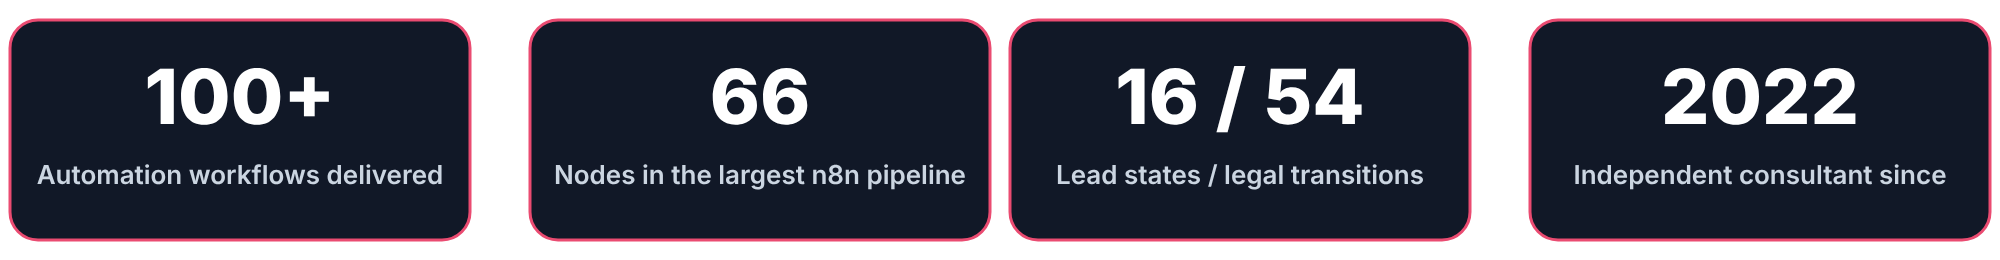
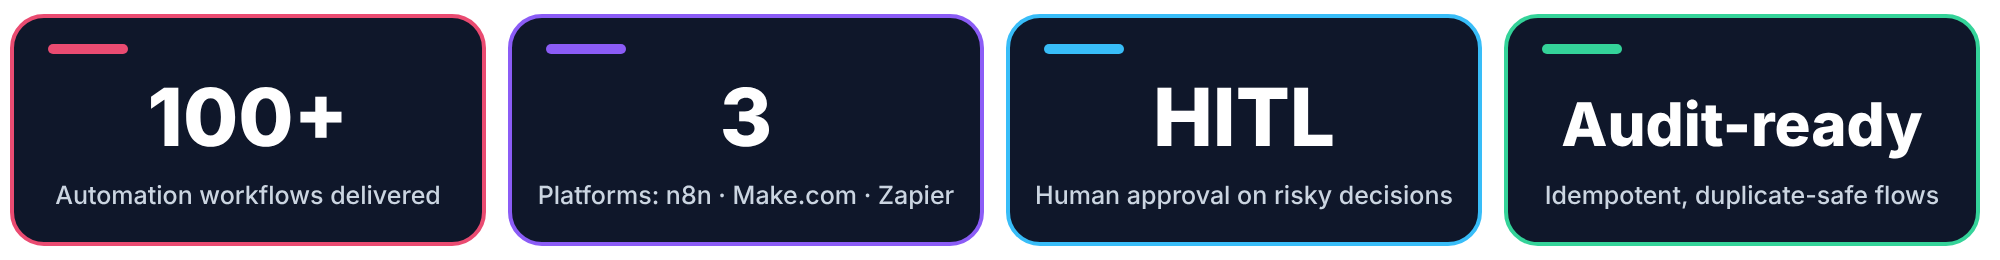
Add files via upload

diff --git a/README.md b/README.md
@@ -25,48 +25,57 @@
 
 <br/>
 
-<img align="right" src="coding-girl.png" alt="Coding from home" width="250" />
+<table>
+<tr>
+<td valign="top" width="68%">
 
 ## 👋 Hi, I'm Anima
 
 I turn repetitive manual work into **reliable, AI-powered business systems**. Since 2022 I have delivered **100+ automation workflows** for multiple clients using **n8n, Make.com and Zapier**, connecting CRMs, email, messaging and APIs, with **data validation, duplicate prevention and human approval** built in.
 
-- 🤖 Building AI lead research, outreach and customer-support systems
-- 🛡 Designing workflows that **validate before they act** and **recover when they fail**
-- 👥 Placing a **human approval gate** wherever a decision carries risk
+- 🤖 AI lead research, outreach and customer-support systems
+- 🛡 Workflows that **validate before they act** and **recover when they fail**
+- 👥 A **human approval gate** wherever a decision carries risk
 - 📨 Clients report time savings and less repetitive manual work
 
-<br clear="right"/>
+</td>
+<td align="center" valign="middle" width="32%">
+
+<img src="automation-girl.gif" alt="Automation" width="250" />
+
+</td>
+</tr>
+</table>
 
 <div align="center">
-  <img src="metrics.png" alt="100+ workflows, 66-node pipelines, 16 lead states, 54 legal transitions" width="100%" />
+  <img src="metrics.png" alt="100+ workflows · 3 platforms · Human-in-the-loop · Audit-ready" width="100%" />
 </div>
 
 ---
 
-## 🧾 whoami
+## 🪪 Quick Facts
 
-```jsonc
-// anima-das.json
-{
-  "name": "Anima Das",
-  "role": "AI Automation Engineer & Systems Architect",
-  "location": { "city": "Sylhet", "country": "Bangladesh", "remote": true },
-  "since": 2022,
-  "delivered": "100+ automation workflows",
-  "platforms": ["n8n", "Make.com", "Zapier"],
-  "ai": ["OpenAI GPT-4", "Google Gemini", "Ollama (local LLMs)", "VEO 3"],
-  "principles": [
-    "validate before action",
-    "human review for consequential decisions",
-    "explicit, recoverable failure paths",
-    "preserve state, prevent duplicate actions",
-    "keep credentials out of exports"
-  ],
-  "education": "B.Sc. CSE, Shahjalal University of Science and Technology (SUST)",
-  "openTo": ["Full-time remote roles"]
-}
-```
+| | |
+| :--- | :--- |
+| **Role** | AI Automation Engineer & Systems Architect |
+| **Experience** | Independent remote consultant since 2022 |
+| **Delivered** | 100+ automation workflows for multiple clients |
+| **Platforms** | n8n · Make.com · Zapier |
+| **AI** | OpenAI GPT-4 · Google Gemini · Ollama (local LLMs) · VEO 3 |
+| **Education** | B.Sc. in Computer Science & Engineering, SUST |
+| **Looking for** | Full-time remote roles |
+
+---
+
+## 🎯 What I Automate
+
+| | Area | What it covers |
+| :-: | :--- | :--- |
+| 📈 | **B2B lead research & outreach** | Multi-source company research, email verification, evidence-based drafts, controlled follow-up |
+| 🎧 | **Customer support & voice agents** | Intent routing, FAQ, order status, booking, ticketing and human escalation |
+| 🛡 | **Brand & social-media defense** | Signed webhook intake, policy-based actions, kill switch, human review tasks |
+| 🎬 | **Generative video pipelines** | VEO 3 prompt engineering and auto-publishing to TikTok, Instagram and YouTube |
+| 🏢 | **CRM & operations** | HubSpot, GoHighLevel, Google Sheets, Gmail, Telegram, calendars |
 
 ---
 
@@ -163,13 +172,6 @@ I turn repetitive manual work into **reliable, AI-powered business systems**. Si
 | [**Generative AI Video Production & Publishing Pipeline**](https://github.com/Anima-Das/generative-ai-video-production-publishing-pipeline) | `n8n` `VEO 3` | Cinematic short-form video generation and automated publishing to TikTok, Instagram and YouTube. |
 | [**Smart AI Customer Support & Lead Generation**](https://github.com/Anima-Das/smart-ai-customer-support-lead-generation-human-handoff) | `n8n` `OpenAI` `Messenger` | Facebook Messenger support and lead-gen bot with intent routing, persistent customer profiles and human handoff. |
 
-<div align="center">
-
-[![Anima-Das/autonomous-outreach-intelligence-campaign-orchestrator](https://github-readme-stats.vercel.app/api/pin/?username=Anima-Das&repo=autonomous-outreach-intelligence-campaign-orchestrator&theme=radical&border_radius=10)](https://github.com/Anima-Das/autonomous-outreach-intelligence-campaign-orchestrator)
-[![Anima-Das/B2B-Lead-Research-Cold-Outreach-Automation](https://github-readme-stats.vercel.app/api/pin/?username=Anima-Das&repo=B2B-Lead-Research-Cold-Outreach-Automation&theme=radical&border_radius=10)](https://github.com/Anima-Das/B2B-Lead-Research-Cold-Outreach-Automation)
-
-</div>
-
 ---
 
 ## 🔄 How My Automations Flow
@@ -183,17 +185,6 @@ flowchart LR
     E --> F[(🗂 Audit Log<br/>PostgreSQL)]
     B -. invalid .-> X[⚠ Error Path]
     E -. uncertain .-> R[🔁 Reconcile, never blind resend]
-```
-
----
-
-## 🔭 Currently
-
-```text
-> focus      Advanced n8n workflows with multi-branch logic and persistent state
-> building   Autonomous AI agents with human approval checkpoints
-> improving  Reliability: validation, error handling, retries, audit logging
-> status     Open to full-time remote roles
 ```
 
 ---
@@ -224,23 +215,16 @@ flowchart LR
 
 ---
 
-## 📊 GitHub Stats
+---
 
-<div align="center">
+## 🔭 Currently
 
-<img height="180" src="https://github-readme-stats.vercel.app/api?username=Anima-Das&show_icons=true&theme=radical&hide_border=false&border_radius=10&count_private=true" alt="GitHub stats" />
-<img height="180" src="https://github-readme-stats.vercel.app/api/top-langs/?username=Anima-Das&layout=compact&theme=radical&border_radius=10&langs_count=8" alt="Top languages" />
-
-<img src="https://github-profile-trophy.vercel.app/?username=Anima-Das&theme=radical&no-frame=true&row=1&column=6" alt="Trophies" />
-
-<img src="https://github-readme-streak-stats.herokuapp.com/?user=Anima-Das&theme=radical&hide_border=false&border_radius=10" alt="Contribution streak" />
-
-<img src="https://github-readme-activity-graph.vercel.app/graph?username=Anima-Das&theme=react-dark&hide_border=true&area=true&color=ea4b71&line=ea4b71&point=ffffff" alt="Contribution graph" width="100%" />
-
-<sub>Top languages reflect public repositories only, not skill level. Most of my work is n8n workflow JSON.</sub>
-
-</div>
-
+```text
+> focus      Advanced n8n workflows with multi-branch logic and persistent state
+> building   Autonomous AI agents with human approval checkpoints
+> improving  Reliability: validation, error handling, retries, audit logging
+> status     Open to full-time remote roles
+```
 
 ---
 
@@ -261,9 +245,5 @@ I'm open to **full-time remote roles** where automation is treated as engineerin
 <br/>
 
 <samp><b>Automation that validates before it acts, and recovers when it fails.</b></samp>
-
-<br/><br/>
-
-<img src="https://capsule-render.vercel.app/api?type=waving&color=0:ea4b71,50:4c1d95,100:0f172a&height=120&section=footer" alt="" width="100%" />
 
 </div>
